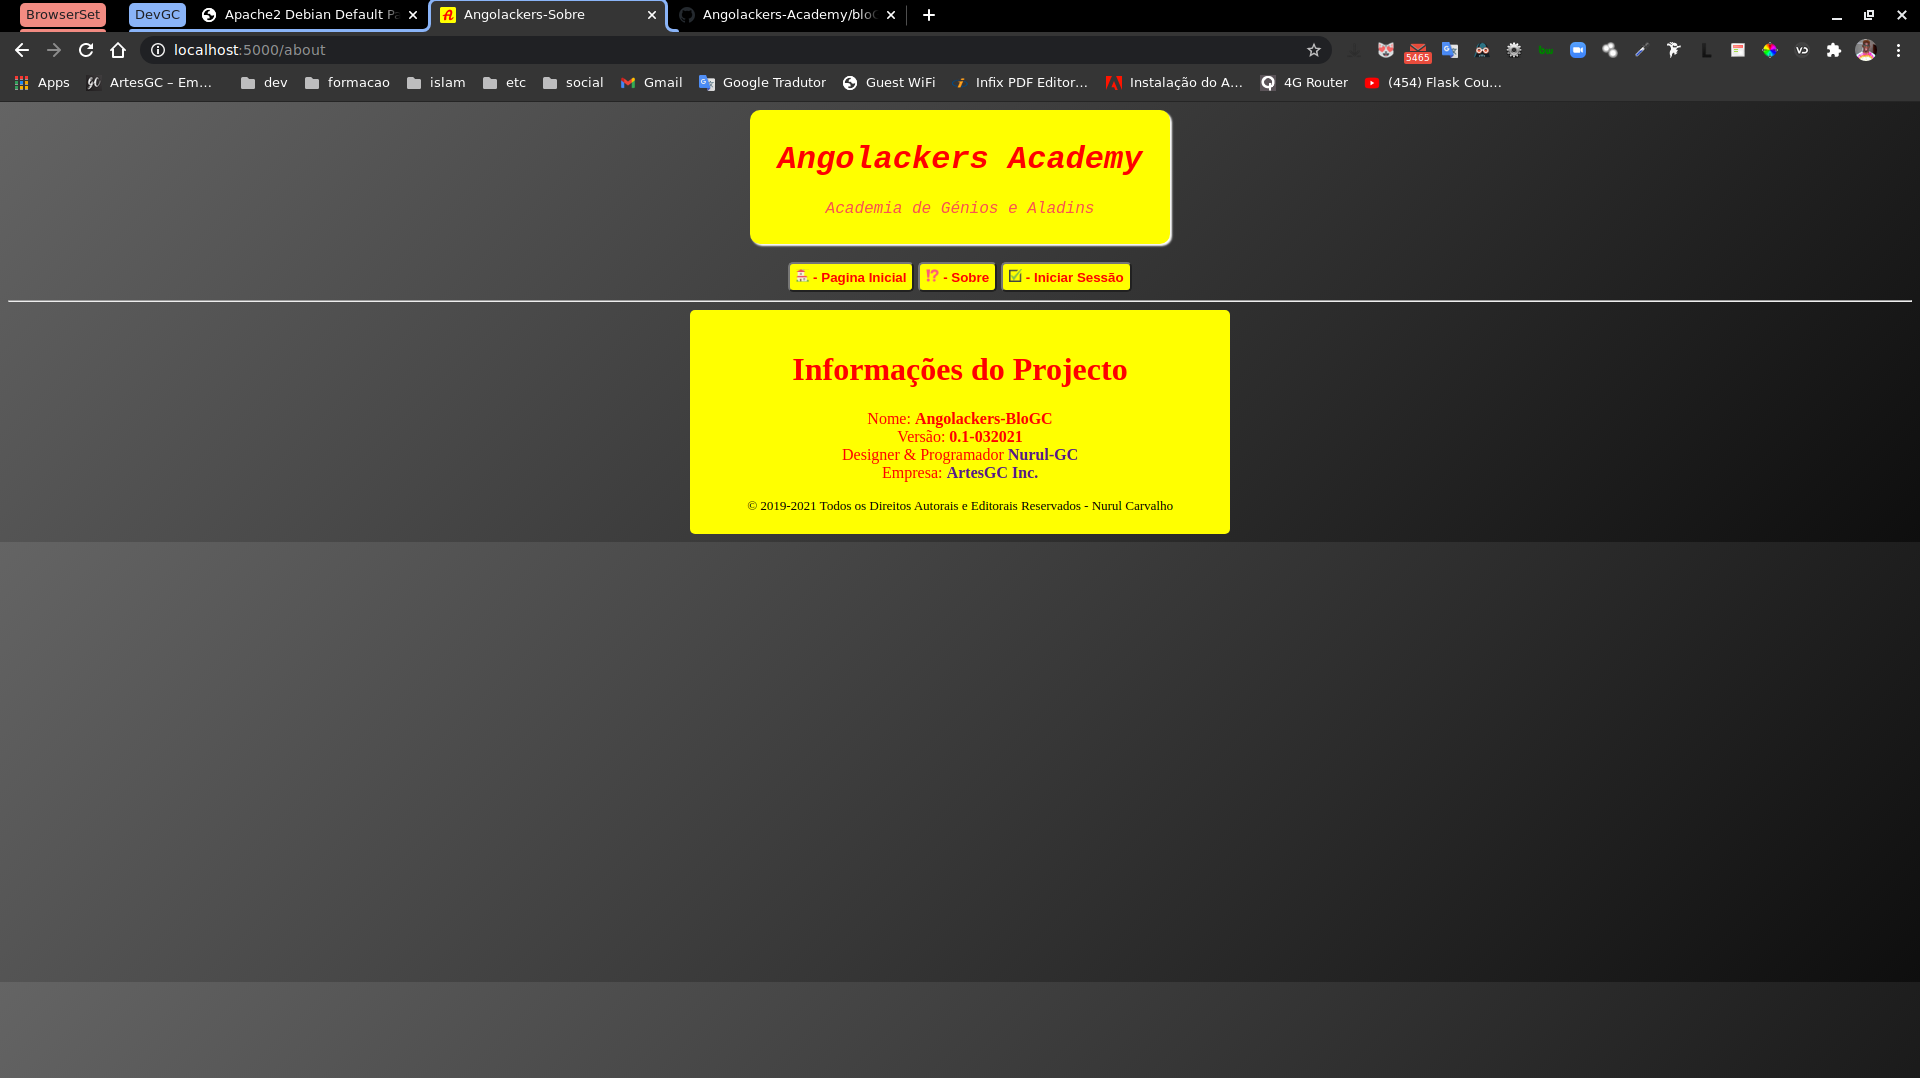
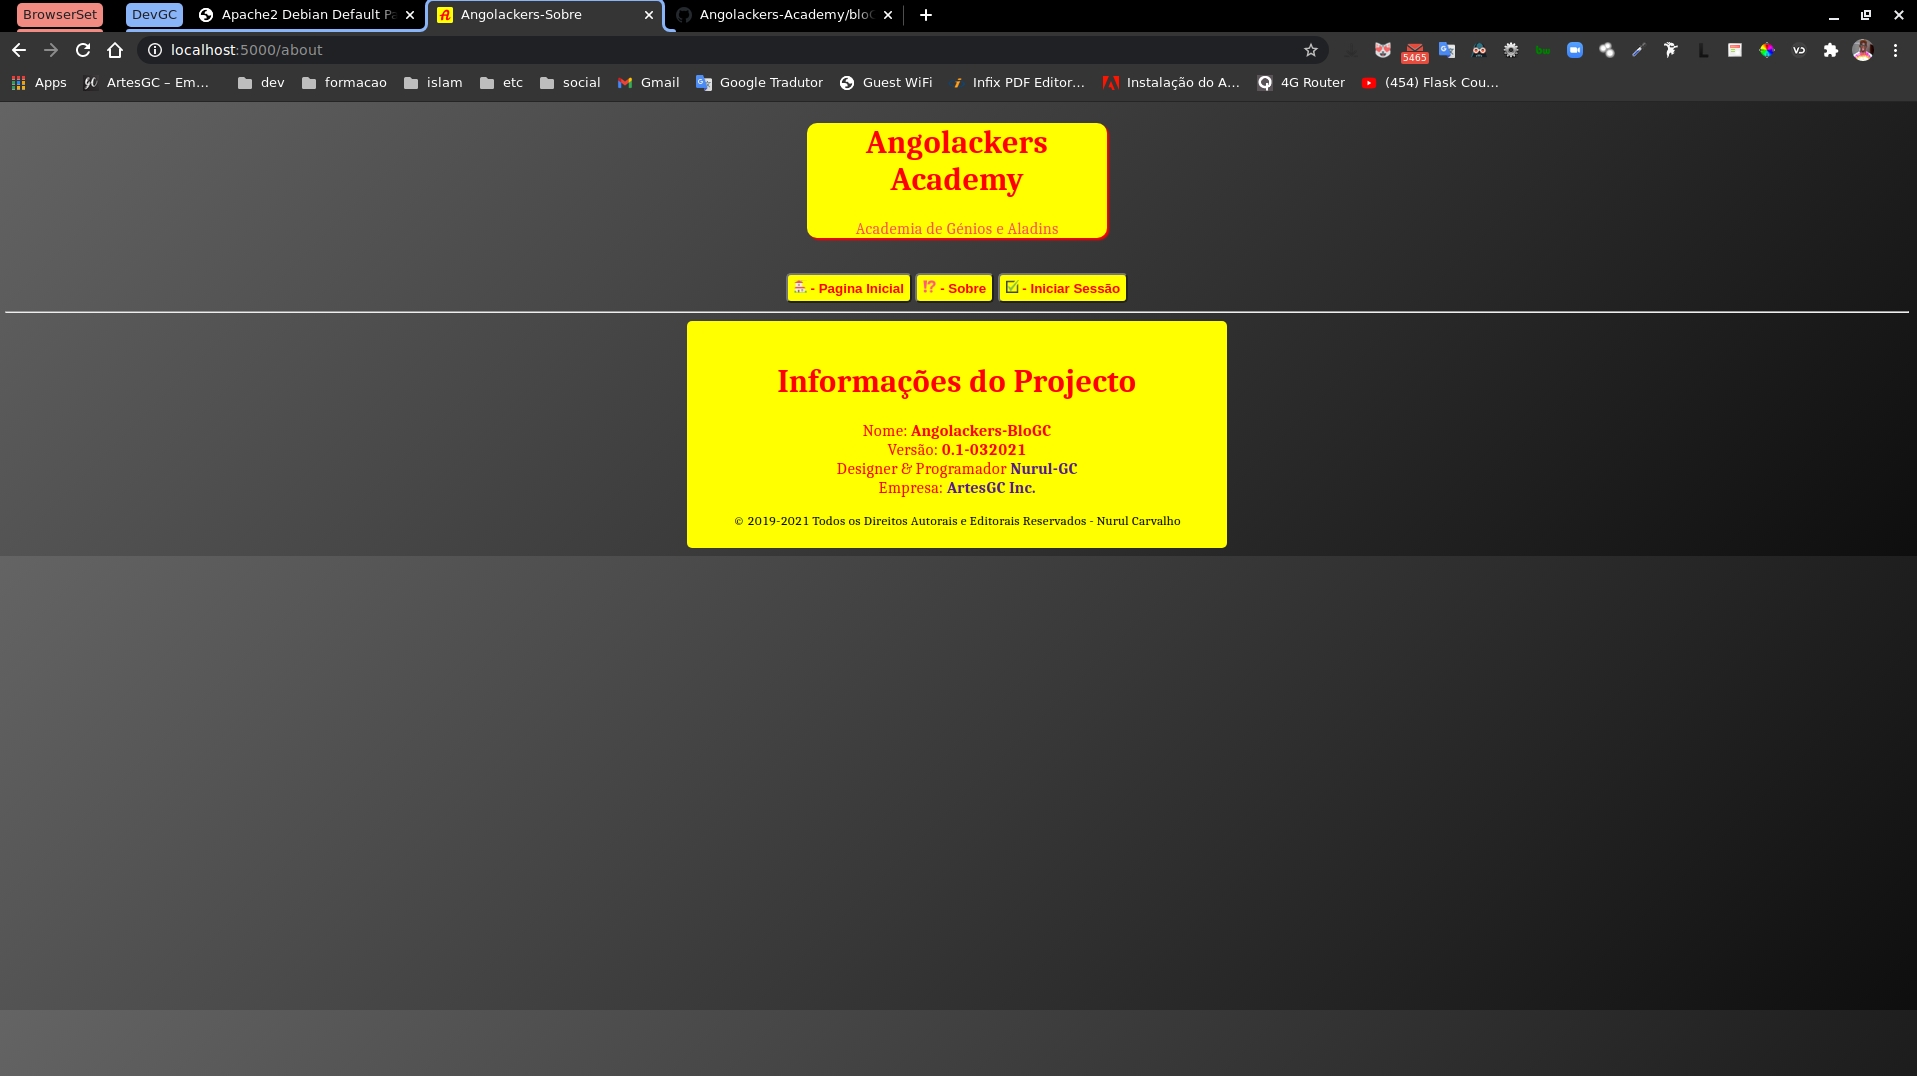
updating commit

Changed region(s): [[0.0, 0.0, 1.0, 0.3067], [0.3385, 0.3374, 0.6463, 0.5214], [0.3385, 0.0, 0.4617, 0.0307]]

diff --git a/app/templates/base.html b/app/templates/base.html
@@ -37,14 +37,12 @@
             font-family: Cambria, Cochin, Georgia, Times, 'Times New Roman', serif;
         }
         #header main{
-            font-style: italic;
             background-color: yellow;
             text-align: center;
-            width: 400px;
-            padding: 10px 10px 10px 10px;
+            width: 300px;
             margin: auto;
             border-radius: 10px;
-            box-shadow: 2px 2px 2px white;
+            box-shadow: 2px 2px 2px red;
         }
         #header a{
             text-decoration: none;
